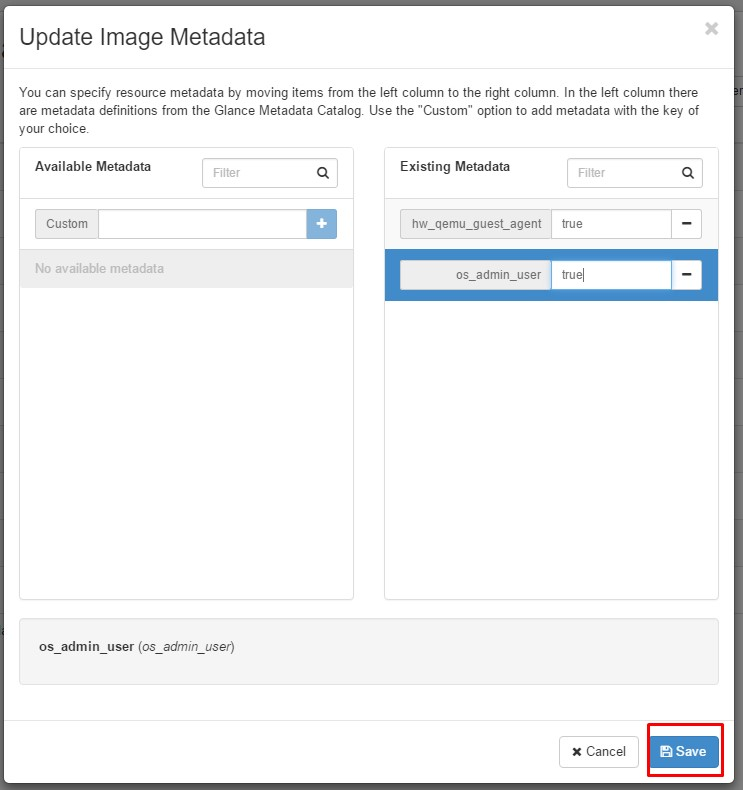
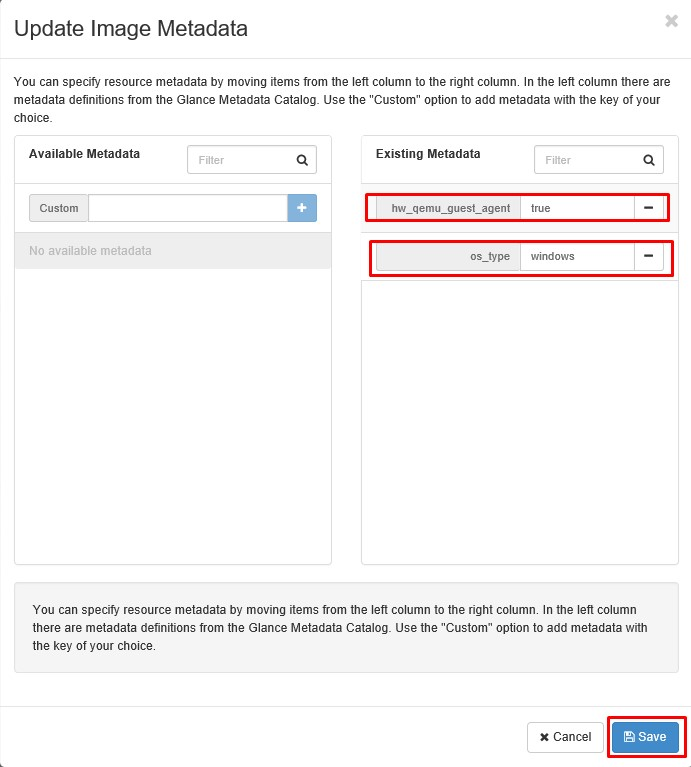
sua

Changed region(s): [[0.0, 0.0, 1.0, 1.0]]

diff --git a/docs/Windows2K12R2.md b/docs/Windows2K12R2.md
@@ -220,15 +220,29 @@ openstack image create Win2k12 --disk-format qcow2 --container-format bare --pub
 ### 3.5. Chỉnh sửa metadata của image upload
 ![Create VM 46](/images/win2k12_standard/win2k12_47.jpg)
 
-Thêm 2 metadata là 'hw_qemu_guest_agent' và 'os_admin_user', set giá trị là True, sau đó save lại
+Thêm 2 metadata là 'hw_qemu_guest_agent' và 'os_type', với giá trị tương ứng là `true` và `windows`, sau đó save lại
 ![Create VM 47](/images/win2k12_standard/win2k12_48.jpg)
 
 ### 3.6. Image đã sẵn sàng để launch máy ảo.
 
 ## 4. Thử nghiệm việc đổi password máy ảo (sau đã đã tạo máy ảo)
-### 4.1. Xác định vị trí máy ảo đang nằm trên node compute nào. VD máy ảo đang sử dụng là `win2k12_qemu_ga`
+### Cách 1: sử dụng nova API
+Trên node Controller, thực hiện lệnh và nhập password cần đổi
 
-`nova show win2k12_qemu_ga`
+```
+root@controller1:# nova set-password win2k12_qemu_ga
+New password: 
+Again: 
+```
+với win2k12_qemu_ga là tên máy ảo
+
+
+### Cách 2: sử dụng trực tiếp libvirt
+#### Xác định vị trí máy ảo đang nằm trên node compute nào. VD máy ảo đang sử dụng là `win2k12_qemu_ga`
+
+`root@controller1:# nova show win2k12_qemu_ga`
+
+với win2k12_qemu_ga là tên máy ảo
 
 Kết quả:
 ```
@@ -245,30 +259,30 @@ Kết quả:
 
 Như vậy máy ảo nằm trên node compute6 với KVM name là `instance-00001827`
 
-### 4.2. Trên compute6, kiểm tra để tìm file socket kết nối tới máy ảo
+#### Trên compute6, kiểm tra để tìm file socket kết nối tới máy ảo
 ```
 root@compute6:~# bash -c  "ls /var/lib/libvirt/qemu/*.sock"
 ```
 
 Kết quả:
 ```
-/var/lib/libvirt/qemu/org.qemu.guest_agent.0.instance-0000001d.sock
+/var/lib/libvirt/qemu/org.qemu.guest_agent.0.instance-00001827.sock
 
 instance-0000001d: tên của máy ảo trên KVM
 ```
 
 ```
-root@compute6:~# file /var/lib/libvirt/qemu/org.qemu.guest_agent.0.instance-0000001d.sock
+root@compute6:~# file /var/lib/libvirt/qemu/org.qemu.guest_agent.0.instance-00001827.sock
 ```
 
 Kết quả:
 ```
-/var/lib/libvirt/qemu/org.qemu.guest_agent.0.instance-0000001d.sock: socket
+/var/lib/libvirt/qemu/org.qemu.guest_agent.0.instance-00001827.sock: socket
 ```
 
-### 4.3. Kiểm tra kết nối tới máy ảo. Ở trên node compute chứa máy ảo (compute6), chạy lệnh:
+#### Kiểm tra kết nối tới máy ảo. Ở trên node compute chứa máy ảo (compute6), chạy lệnh:
 ```
-root@compute6:~# virsh qemu-agent-command instance-0000181b '{"execute":"guest-ping"}'
+root@compute6:~# virsh qemu-agent-command instance-00001827 '{"execute":"guest-ping"}'
 ```
 
 Kết quả:
@@ -276,7 +290,7 @@ Kết quả:
 {"return":{}}
 ```
 
-### 4.4. Sinh password mới `123456a@` (password phải đáp ứng yêu cầu phức tạp của Windows)
+#### Sinh password mới `123456a@` (password phải đáp ứng yêu cầu phức tạp của Windows)
 ```
 echo -n "123456a@" | base64
 ```
@@ -286,9 +300,9 @@ Kết quả:
 MTIzNDU2YUA=
 ```
 
-### 4.5. Ở trên node compute chứa máy ảo (compute6), chèn password mới vào máy ảo, lưu ý máy ảo phải đang bật
+#### Ở trên node compute chứa máy ảo (compute6), chèn password mới vào máy ảo, lưu ý máy ảo phải đang bật
 ```
-root@compute6:~# virsh  qemu-agent-command instance-0000181b '{ "execute": "guest-set-user-password","arguments": { "crypted": false,"username": "administrator","password": "MTIzNDU2YUA=" } }'
+root@compute6:~# virsh  qemu-agent-command instance-00001827 '{ "execute": "guest-set-user-password","arguments": { "crypted": false,"username": "administrator","password": "MTIzNDU2YUA=" } }'
 ```
 
 Kết quả;
